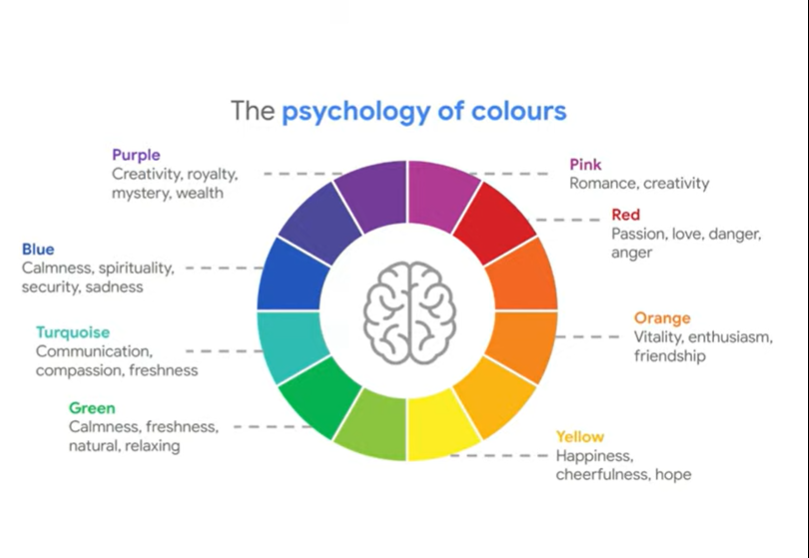
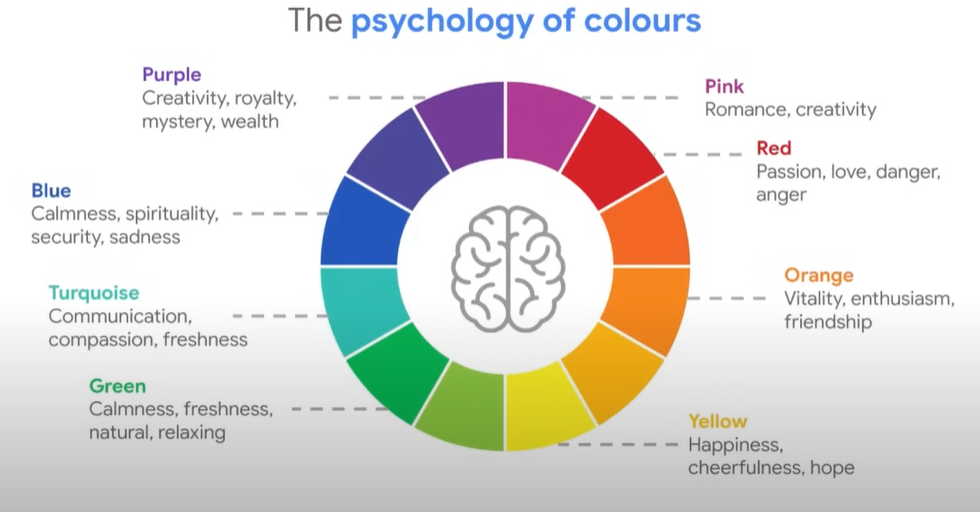
Psicologia de los colores

diff --git a/Google Virtual Session 3/Grow Your Business Brand/README.md b/Google Virtual Session 3/Grow Your Business Brand/README.md
@@ -24,6 +24,24 @@ Existen una serie de cosas que debemos plantearnos y considerar. Obviamente nues
 
 ![Diseño y Personalidad](./desing_and_personality.png) <br>
 
+* Diseño:
+
+La psicología de los colores nos indica que transmite cada color y lo que puede generar en nuestros clientes cuando los ven reflejados en una marca. Es importante elegir bien los colores que encajen bien entre si, y hay 3 formas de hacerlo. <br>
+
+![The Psychology of Colours](./psychology_of_colours.png) <br>
+
+La primera es buscar los colores complementarios. <br>
+
+![Colores complementarios](complementary_colours.png) <br>
+ 
+Luego estan los colores analogos, los cuales se ubican justo al lado de un color. <br>
+
+![Colores analogos](analogous_colours.png) <br>
+
+Por último estan los colores que forman una "triada". <br>
+
+![Colores triada](triadic_colours.png) <br>
+
 ## Da vida a tu marca en la web
 
 
@@ -35,7 +53,3 @@ Existen una serie de cosas que debemos plantearnos y considerar. Obviamente nues
 
 
 # La Psicología de los Colores
-
-
-
-![The Psychology of Colours](./psychology_of_colours.png)
